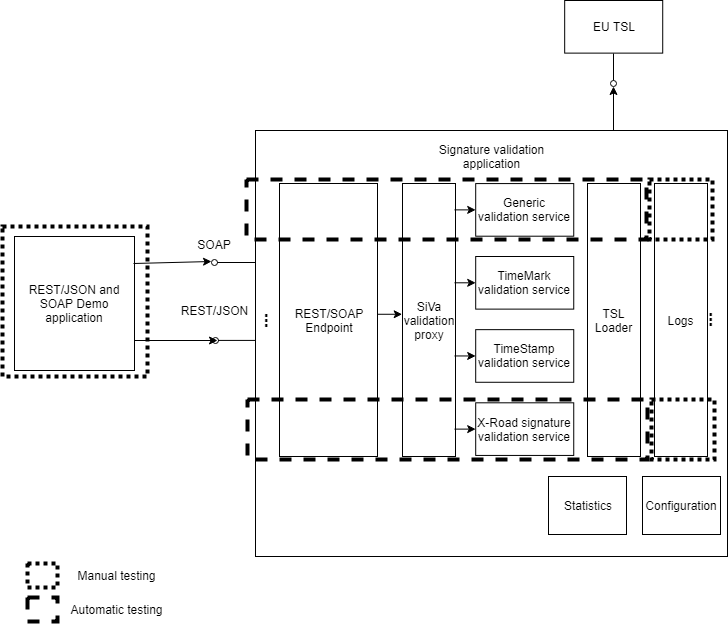
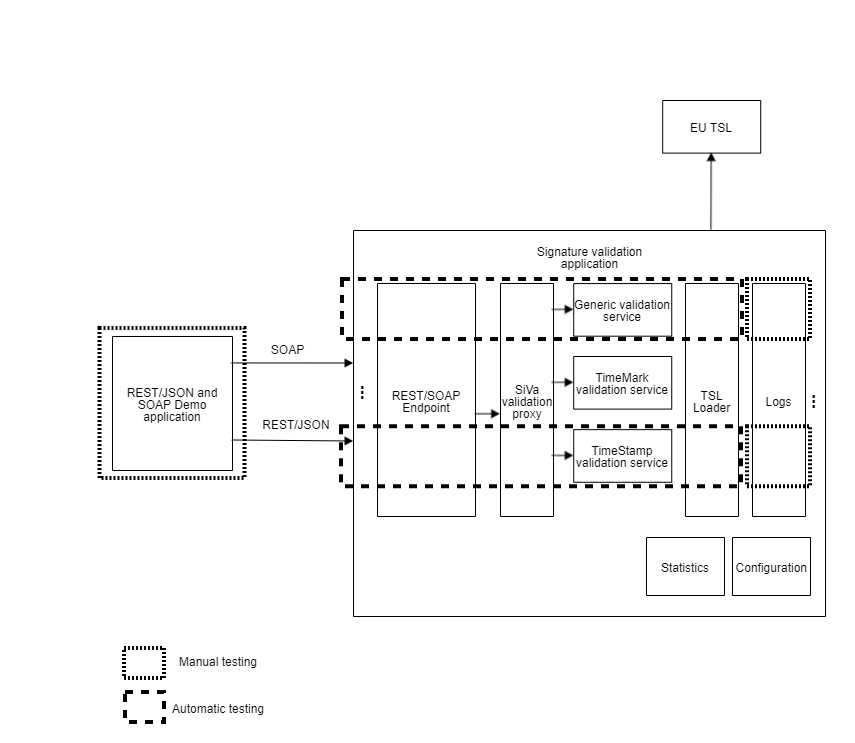
SIVA-353 Remove X-ROAD signature validation service information from QA strategy

diff --git a/docs/siva3/qa_strategy.md b/docs/siva3/qa_strategy.md
@@ -3,11 +3,10 @@
 The goal of this document is to give general overview of the used infrastructure, processes, schedule and actions to ensure good quality delivery. The document describes activities in the whole software development process. Analysis, development and testing are separated for the sake of structure and transparency although they are integral parts of the development cycle.
 This is living document and will be constantly updated as the project evolves.
 ## Environments and infrastructure
-![Enviroment](../img/siva/qa_strategy/siva3/Env.png)
 
 There are different test environments for quality assurance, depending on the nature and aim.
 
-1. TravisCI environment for public CI - Platform: Linux
+1. GitHub Actions environment for public CI - Platform: Linux
 2. Test environment for local test and load test - Platform: Linux
 
 Instructions how to set up test enviroment and run tests together with more info can be found in [SiVa GitHub page](https://github.com/open-eid/SiVa)
@@ -15,13 +14,12 @@ Instructions how to set up test enviroment and run tests together with more info
 System requirements:
 
 * At least 4GB of RAM on machine where the build is executed
-* Minimum required Java version is Java 8
+* Minimum required Java version is Java 11
 * SiVa project provided Maven Wrapper (./mvnw)
 
 Tools used:
 
-* TravisCI – is a continuous integration service used to build and test software projects hosted at GitHub
-* Jenkins – is an open source continuous integration tool written in Java.
+* GitHub Actions – is a continuous integration service used to build and test software projects hosted at GitHub
 * JMeter – tool for creating and running load tests.
 * IntelliJ IDEA – is a Java integrated development environment(IDE) for developing and executing automated tests locally
 * Apache Tomcat - is an open source servlet container developed by the Apache Software Foundation.
@@ -39,7 +37,7 @@ Customized process based on Kanban is used in the development. The process consi
 * Tasks are maintained through JIRA Kanban board
 * Daily team stand-ups are held
 * Tasks marked done are developed, tested and ready to be shipped
-* Bi-weekly meetings are held to give status on progress and discuss open questions
+* Weekly meetings are held to give status on progress and discuss open questions
 ![Development process](../img/siva/qa_strategy/siva3/developmentProcess.png)
 
 ### Issue lifecycle
@@ -76,10 +74,9 @@ Testing follows the principles described in reference document [(1) in Reference
 The goal is to automate as much of the testing process as possible, however some aspects of the testing will be carried out manually.
 As the development is carried out by the backlog priority the testing follows the same principle. After each feature release test cases, test automation code and test results will be available through GitHub.
 ![Testing schedule](../img/siva/qa_strategy/siva3/testingFlow.png)
-### Testing process
 
-All automatic tests, except load tests will follow the same execution process. The tests are ran automatically during the project build process by Travis CI after each push in GitHub.
-![Testing process](../img/siva/qa_strategy/siva3/TestProcess.png)
+### Testing process
+Automatic integration and system tests are ran against deployed SiVa instance (deployed either locally or through CI).
 
 ### Test case management
 Test cases are handled as integral part of test automation code. The same applies on manual tests, in manual test cases some portion of automation may be used to execute the tests but the results are verified manually. All the test cases and test code will be maintained in the GitHub.
@@ -134,8 +131,8 @@ The report will have at least the following elements:
 	* **Expected behavior** - expected outcome of the test sequence.
 	* **Actual behavior** - actual result of the test sequence. The description should be thorough enough to enable the debugging of the problem and to give objective base for severity assessment.
 	* **File attachments** - Test files, logs, images, ...
-### Test levels
 
+### Test levels
 **Integration testing**
 
 The scope of the tests is illustrated on the image below. The goal is to test the SiVA application API (both X-Road and REST/JSON) and to test the independent module capability for validation of specific type of file. Both valid and invalid inputs are tested. More info about testing specifics can be found in Test Plan [Integration testing](/siva/test_plan/#integration-test-introduction) section.
@@ -145,7 +142,6 @@ The scope of the tests is illustrated on the image below. The goal is to test th
 
 The scope of the tests is illustrated on the image below. The goal of the test is to test the entire length of signature validation process and to test supportive functions. In addition Demo application is tested. More info about testing specifics can be found in Test Plan [System testing](/siva/test_plan/#system-test-introduction) section.
 ![System testing](../img/siva/qa_strategy/siva3/systemTest.png)
-
 
 **Regression testing**
 
